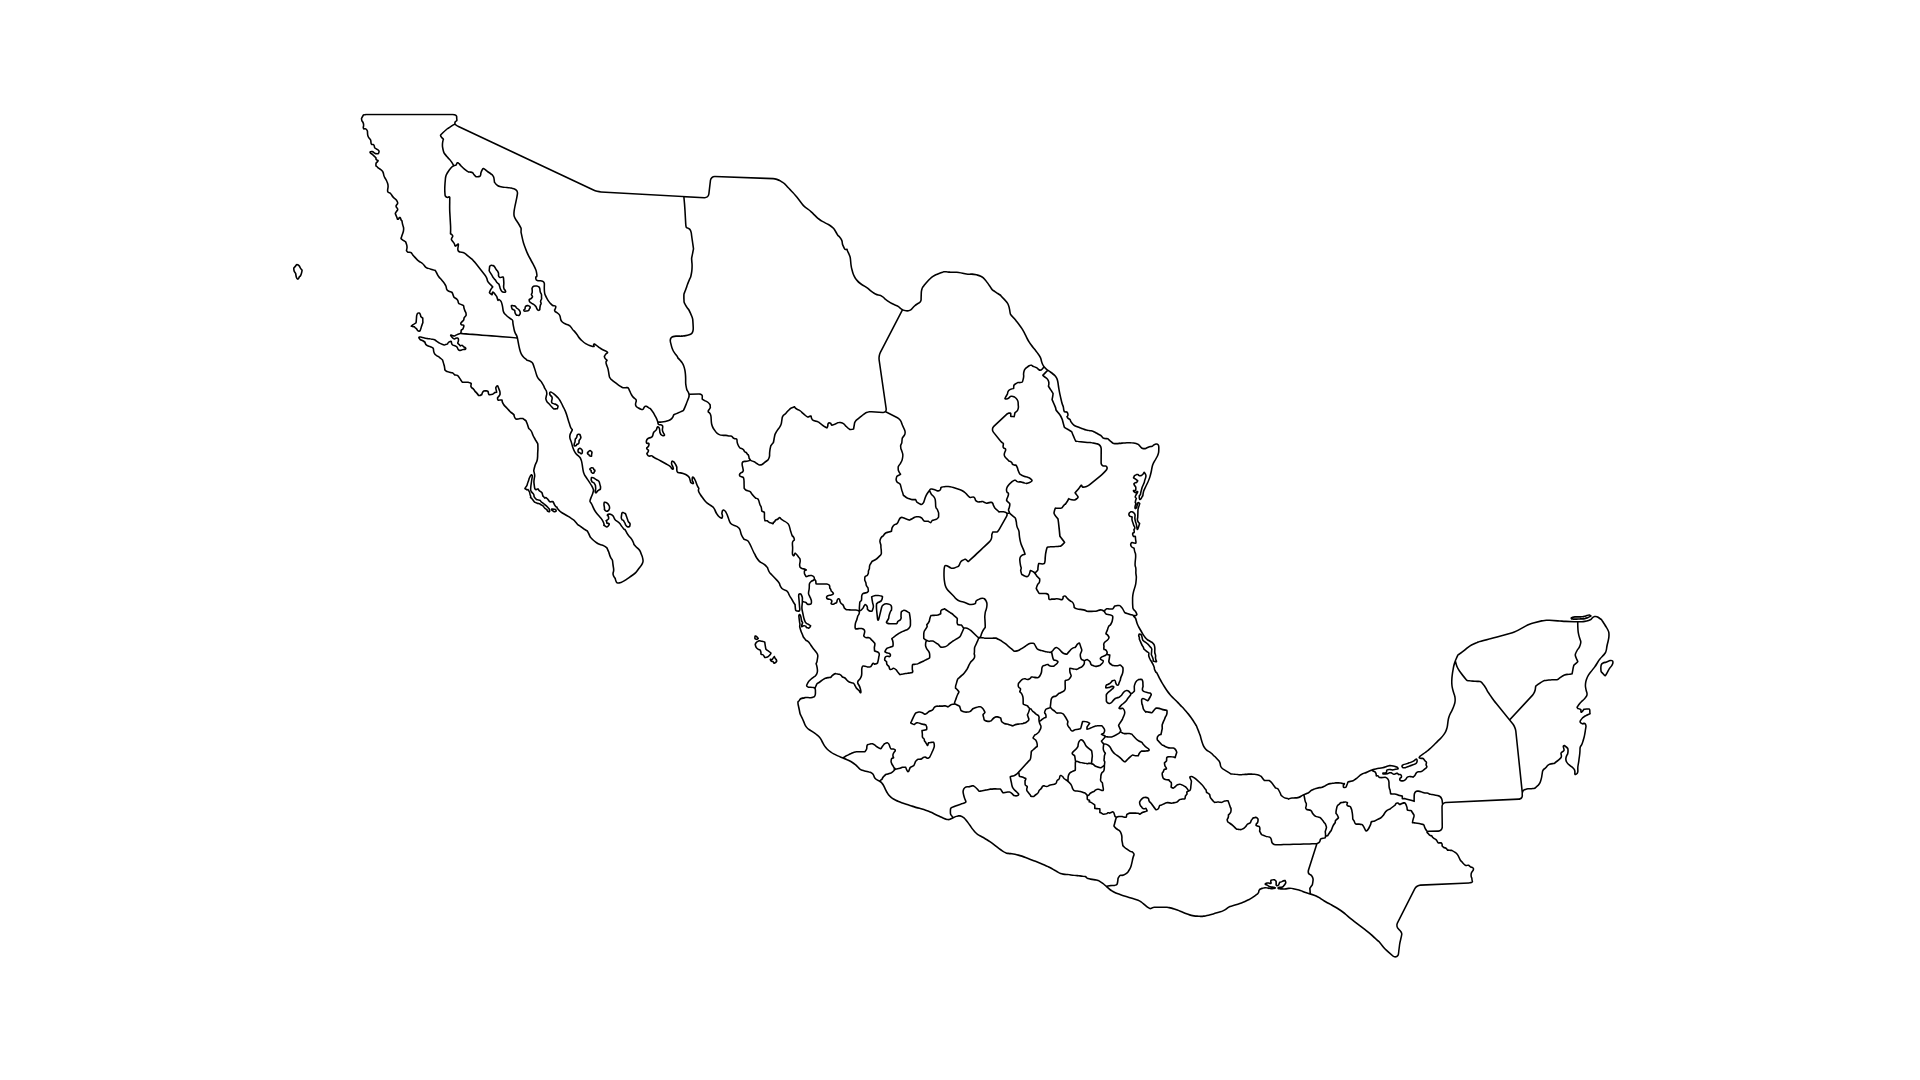
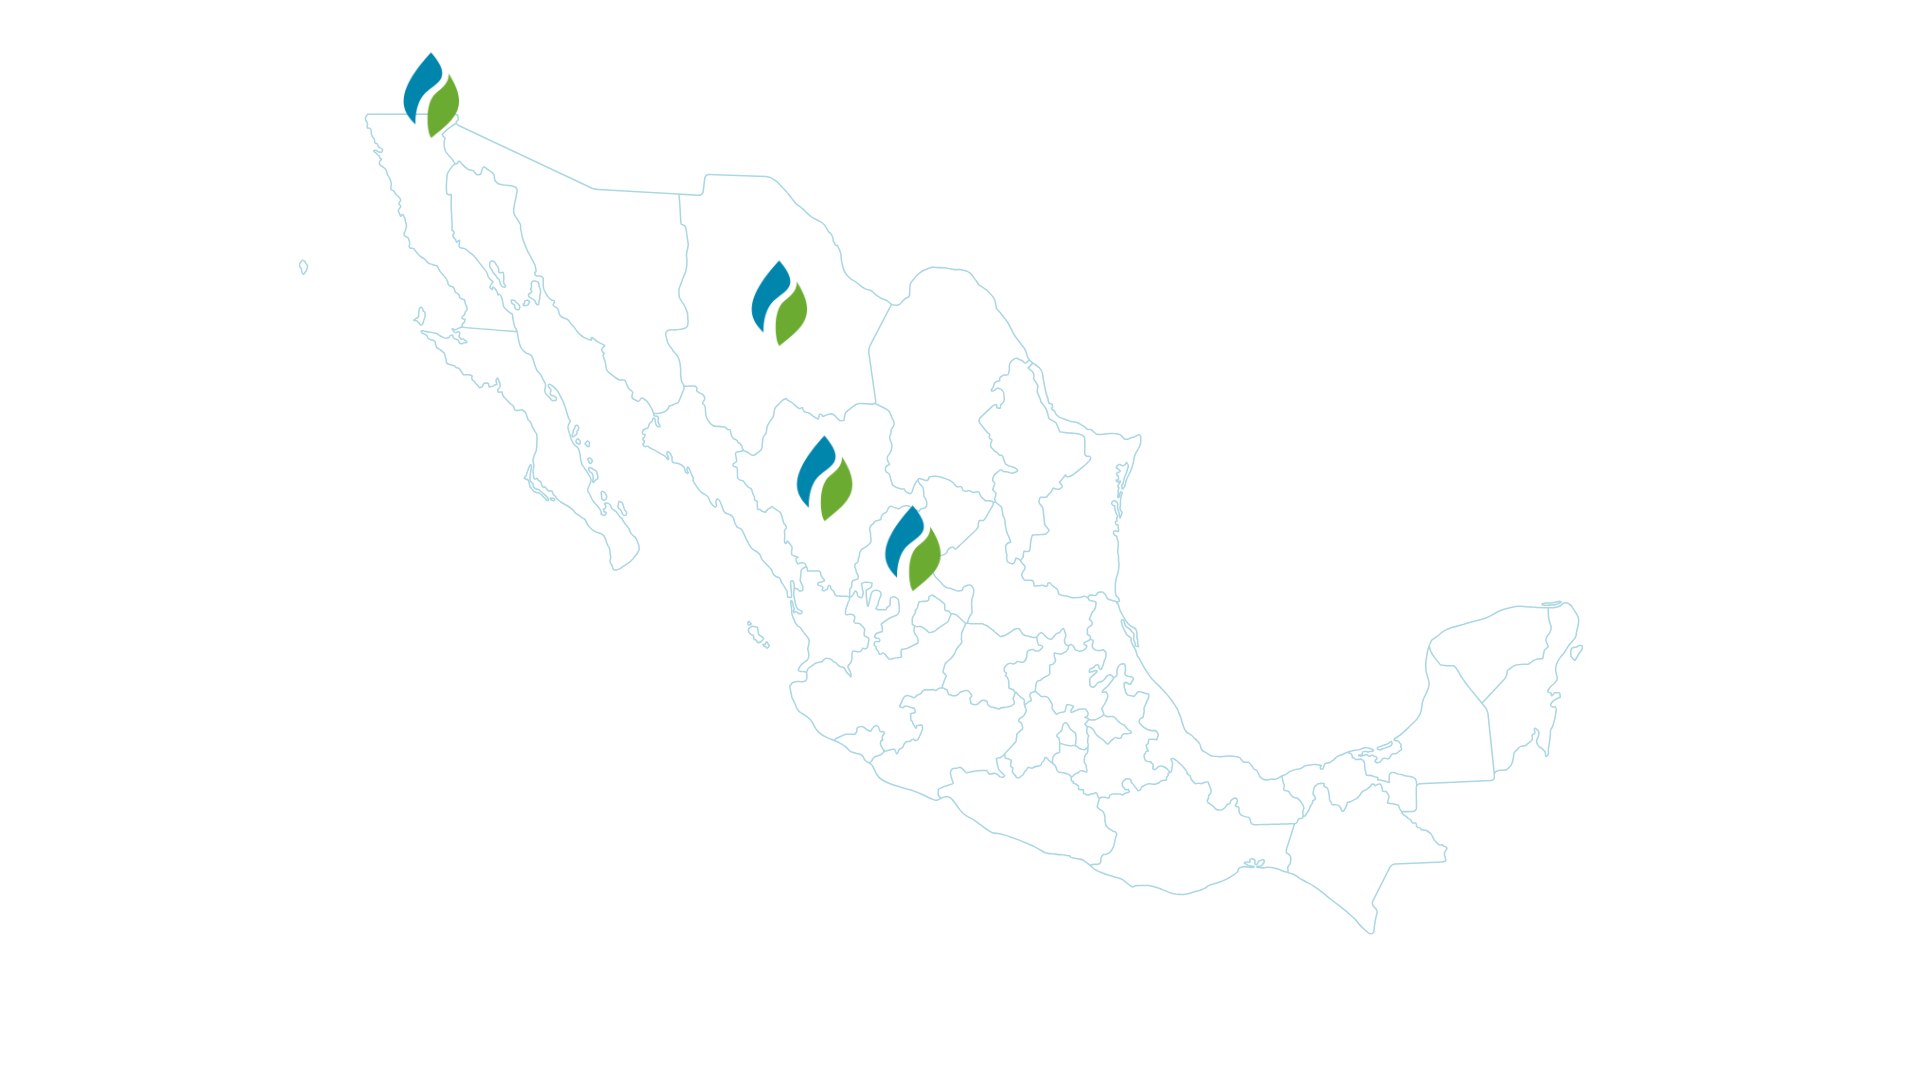
Changes

diff --git a/src/pages/cobertura/Cobertura.tsx b/src/pages/cobertura/Cobertura.tsx
@@ -39,17 +39,13 @@ const Cobertura = () => {
             50% { opacity: 0.35; transform: translate(-50%, -100%) scale(0.85); }
           }
         `}</style>
-        <div className="relative max-w-3xl mx-auto mb-12">
-          {/* Map with cyan overlay */}
+        <div className="relative max-w-3xl mx-auto mb-12 px-4 md:px-0">
           <div className="relative rounded-lg overflow-hidden">
-            <div className="bg-secondary rounded-lg">
-              <img
-                src={mapaImg}
-                alt="Mapa de México - Cobertura ECOGAS"
-                className="w-full h-auto block"
-                style={{ mixBlendMode: "multiply" }}
-              />
-            </div>
+            <img
+              src={mapaImg}
+              alt="Mapa de México - Cobertura ECOGAS"
+              className="w-full h-auto block"
+            />
 
             {/* Flame pins */}
             {cities.map((city, i) => (
@@ -61,7 +57,7 @@ const Cobertura = () => {
                 <img
                   src={flamaImg}
                   alt={city.name}
-                  className="h-8 md:h-10 w-auto drop-shadow-lg"
+                  className="h-6 md:h-10 w-auto drop-shadow-lg"
                   style={{
                     animation: `flame-blink 1.8s ease-in-out infinite`,
                     animationDelay: `${i * 0.4}s`,
@@ -69,9 +65,12 @@ const Cobertura = () => {
                   }}
                 />
                 <span
-                  className="text-[10px] md:text-xs font-bold text-foreground bg-background/80 px-1.5 py-0.5 rounded shadow-sm whitespace-nowrap -mt-1"
+                  className="text-[8px] md:text-xs font-bold text-foreground bg-background/80 px-1 md:px-1.5 py-0.5 rounded shadow-sm whitespace-nowrap -mt-1"
                 >
                   {city.name}
+                </span>
+                <span className="text-[6px] md:text-[10px] text-muted-foreground whitespace-nowrap">
+                  {city.state}
                 </span>
               </div>
             ))}
